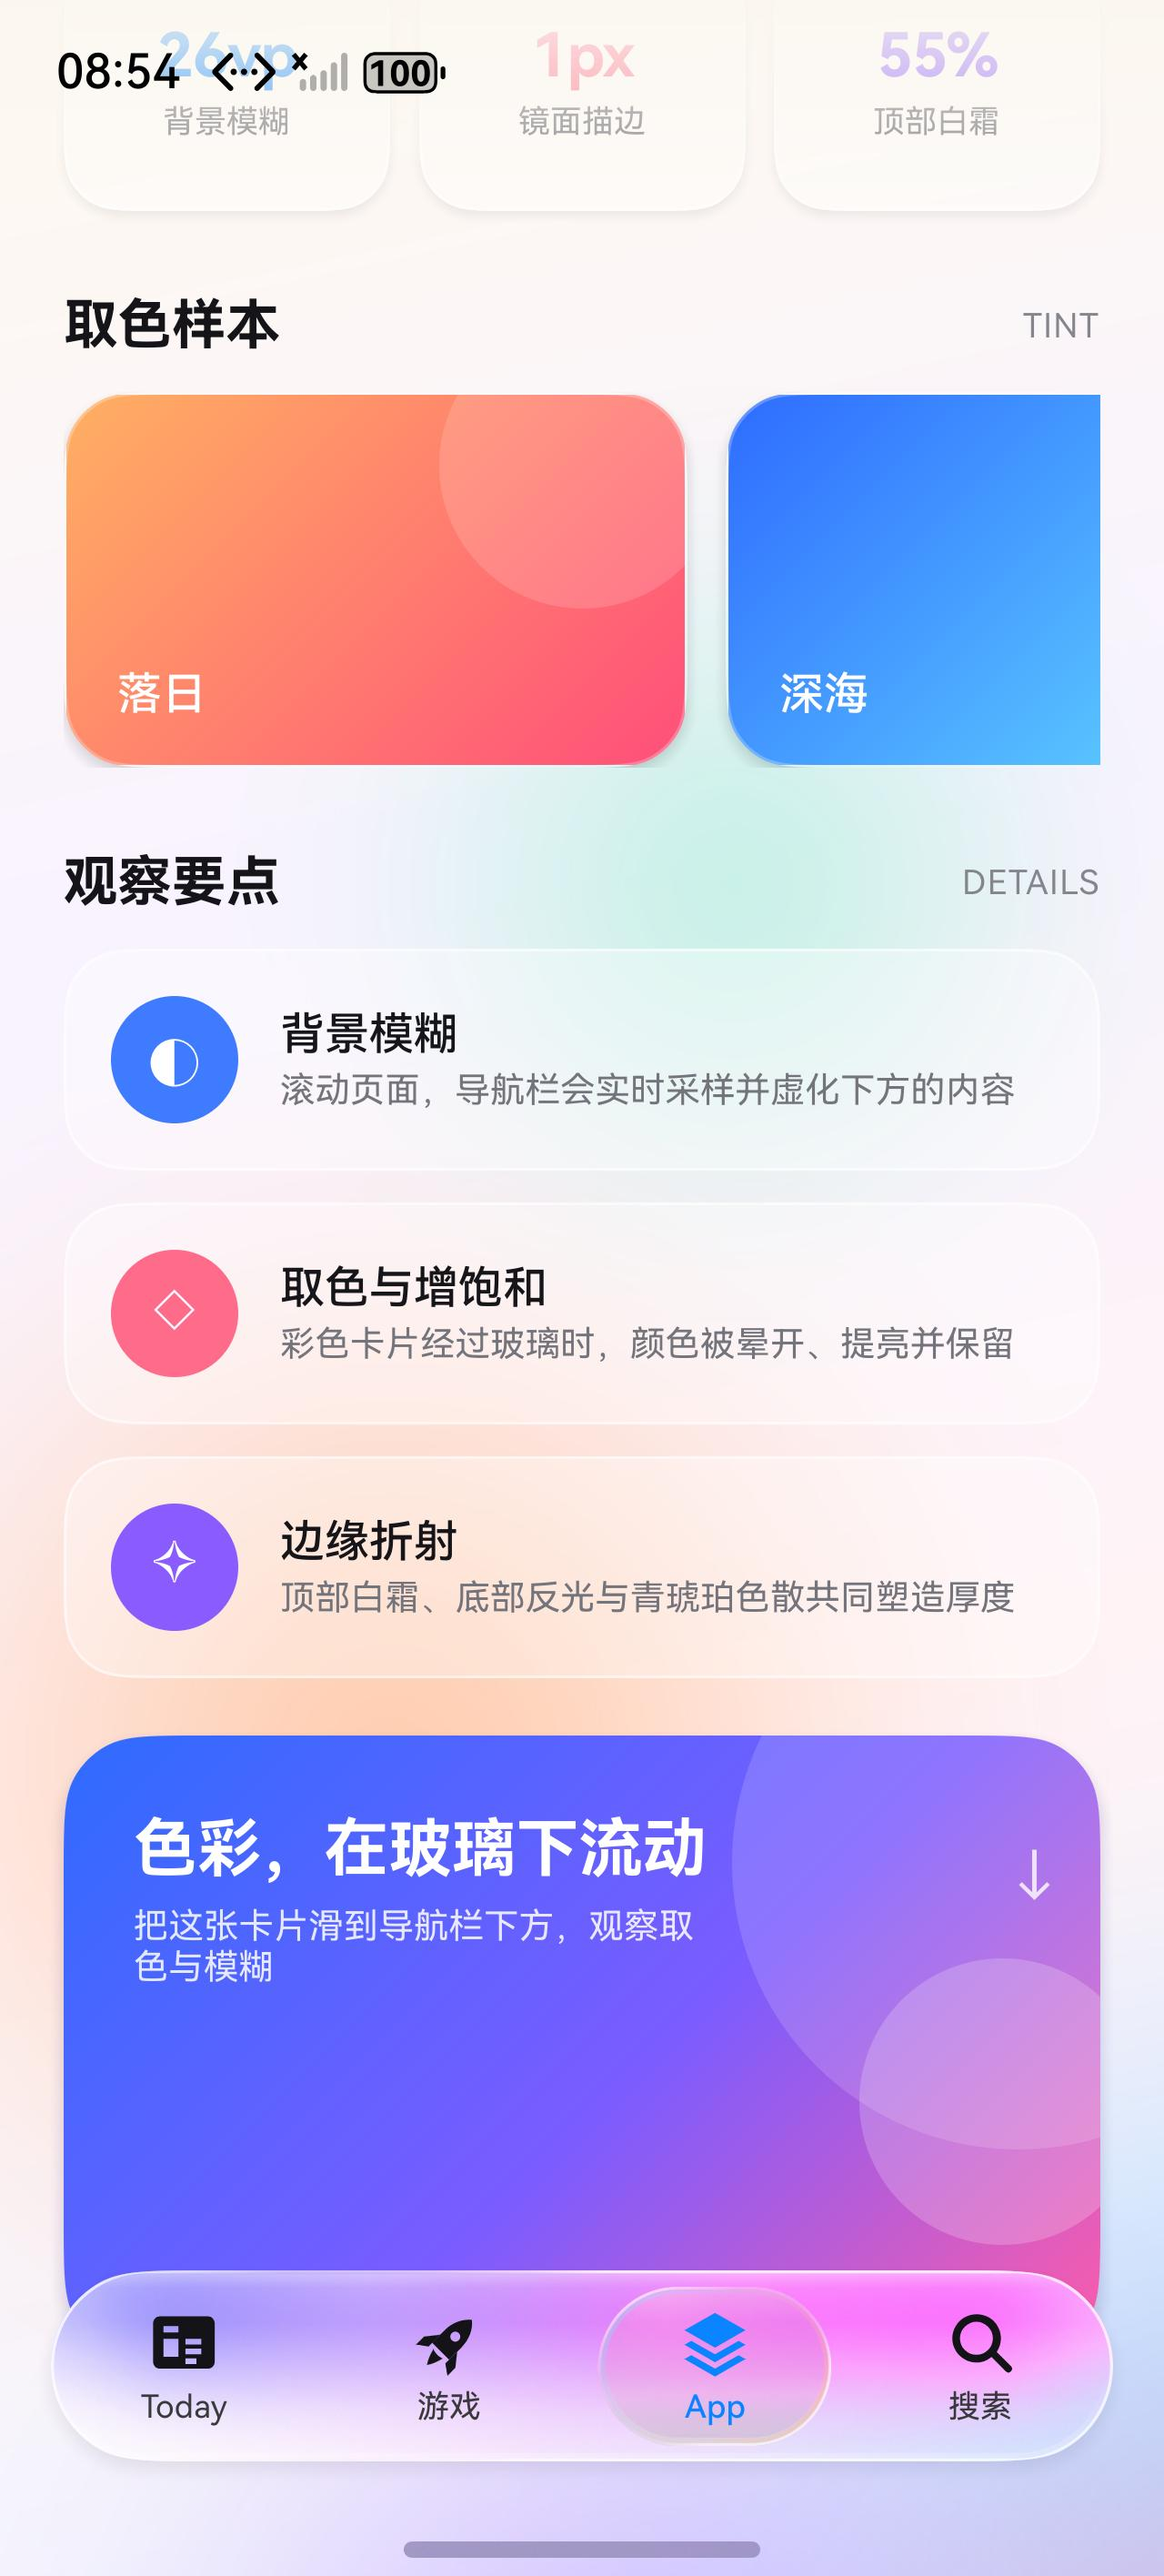
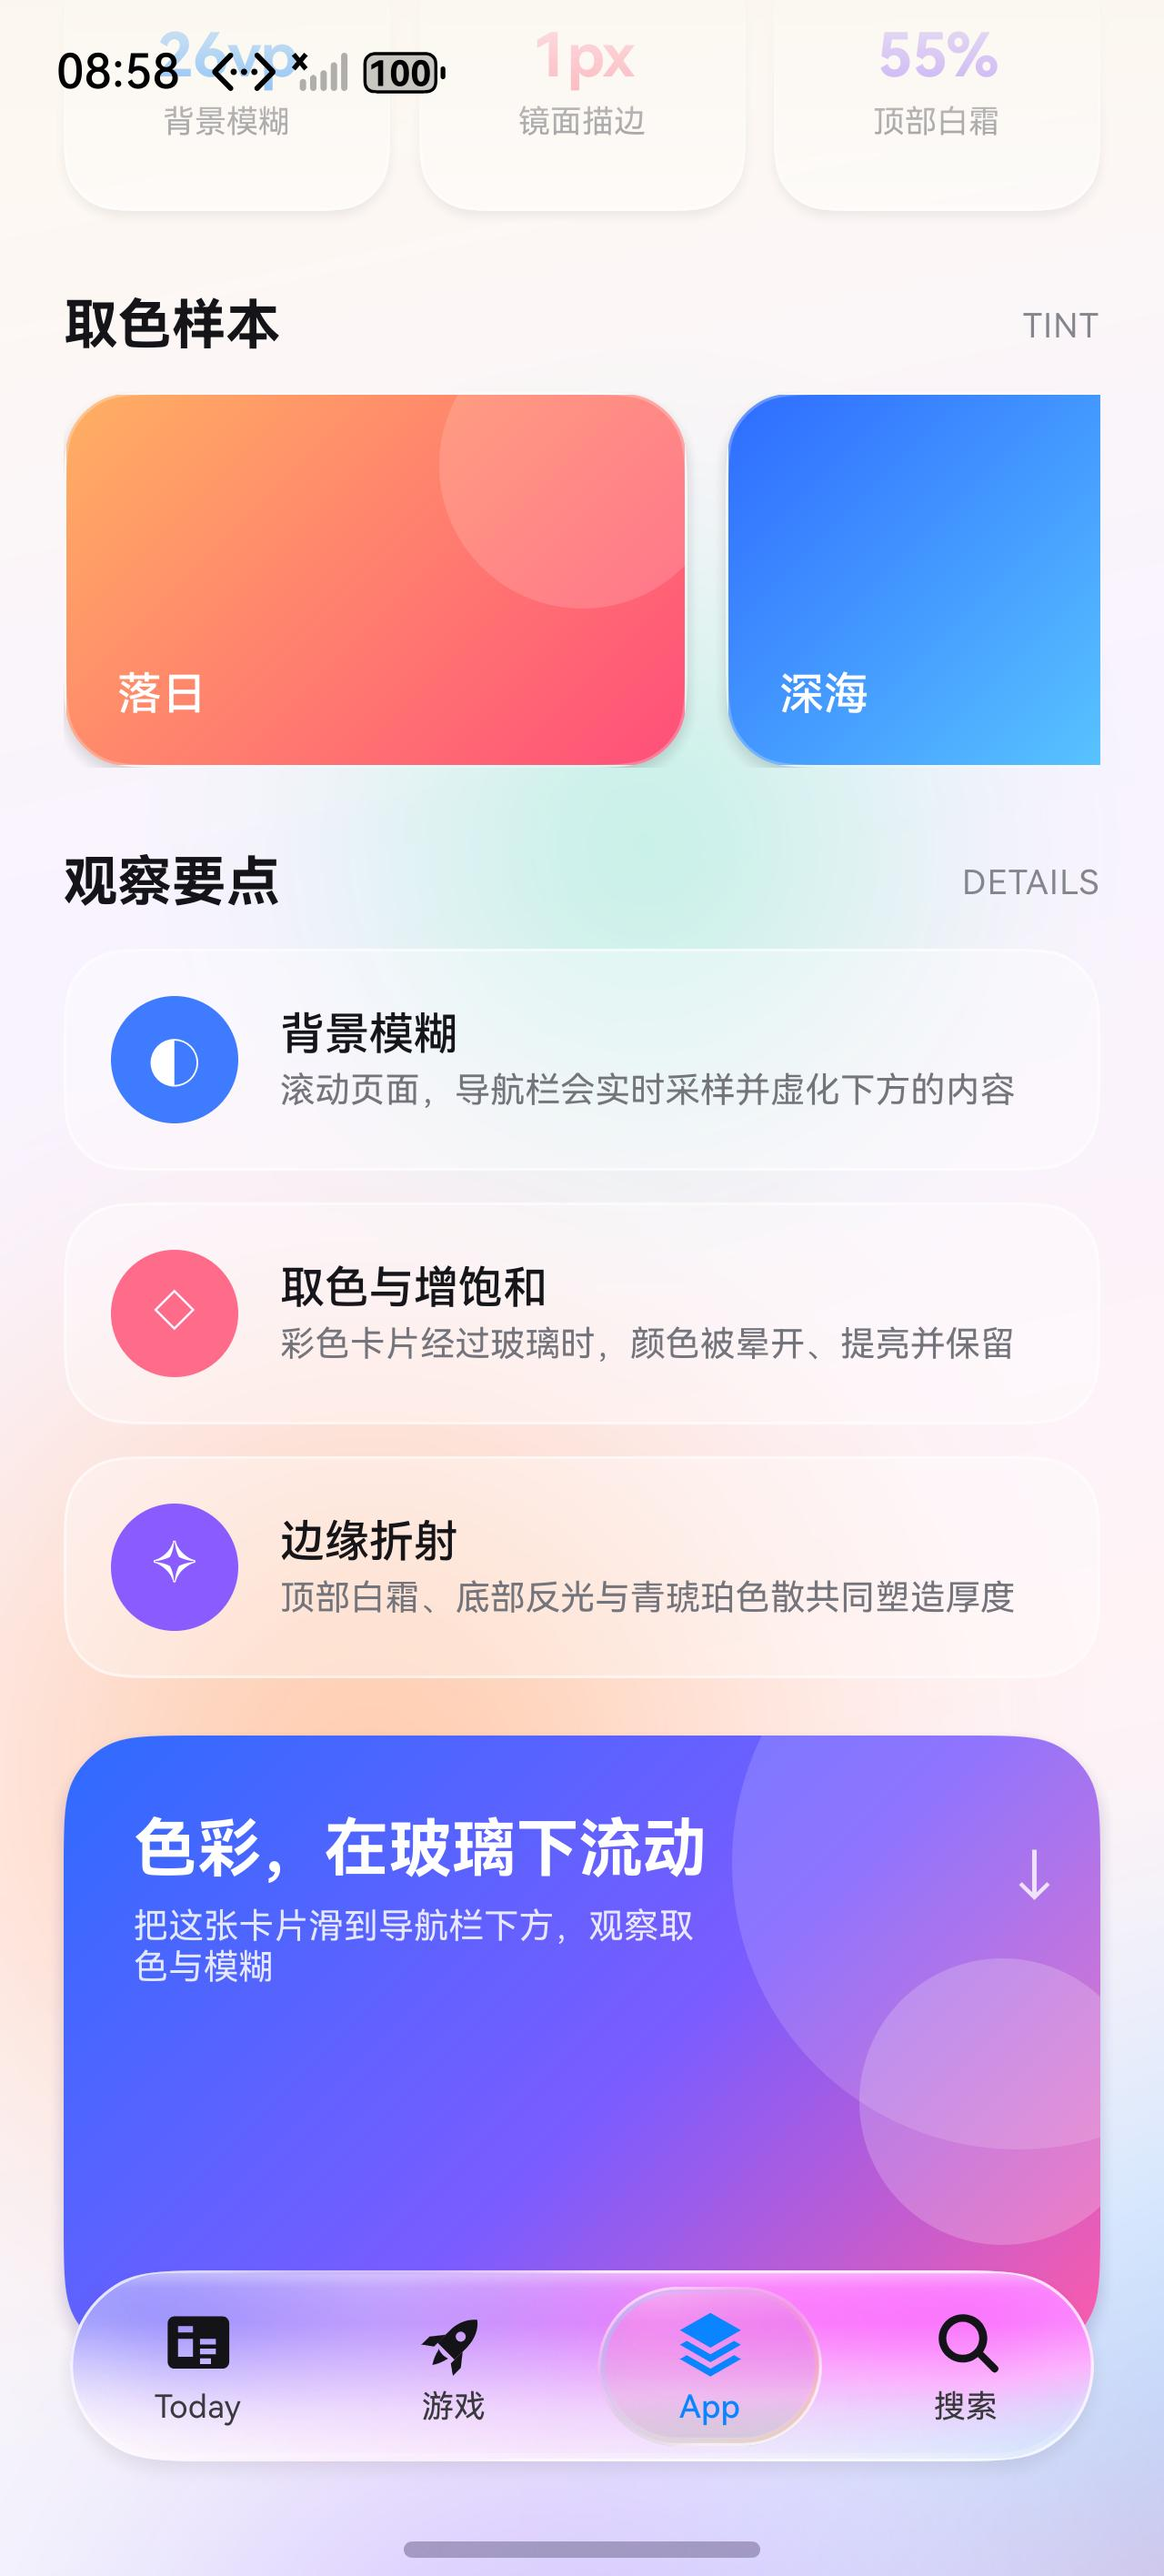
feat: add nav-only magnification to the liquid tab lens
- narrow the floating bar to a 22vp side inset
- let the lens swell beyond the bar with a 30% glass fill at full bloom
- magnify only the tab icons and labels around the lens; page content stays at 1x
- refresh documentation and screenshots

diff --git a/docs/analysis.md b/docs/analysis.md
@@ -123,8 +123,8 @@ ui.animateTo({
 
 // 膨胀
 ui.animateTo({ duration: 170, curve: Curve.EaseOut }, () => {
-  this.bloomX = 1.20;
-  this.bloomY = 1.26;
+  this.bloomX = 1.35;
+  this.bloomY = 1.35;
   this.glow = 0.95;
 });
 
@@ -147,6 +147,12 @@ ui.animateTo({
 - 底部 `#1A000000 → 透明` 的内阴影，制造玻璃厚度。
 - `GlassRim` 色散描边。
 
+> 按最新交互要求，透镜在点击时会明显高出、长出栏体：约 `67.5 vp` 高（上下各超出约 3.75 vp）、约 `95 vp` 长，左右两端最多超出约 7.3 vp。这里不再对透镜做栏体裁剪，让玻璃、模糊与描边一起溢出，形成参考视频里“液体鼓起”的体积感。
+
+膨胀过程中，内部材质会部分淡出：`lensFill` 从 1 → 0.3，`lensRim` 从 1 → 0.8；到最大时仍保留约 30% 的玻璃感，不会完全透明。
+
+**放大只作用于导航栏自身**：四个 TabItem 的图标与文字会根据其到气泡中心的距离放大（约 1.0–1.3×），栏后的页面内容不缩放，只保留玻璃的背景模糊与取色。这样气泡像一枚盖在导航栏上的透镜，而不是放大页面内容。
+
 ![iOS 27 选中透镜瞬间](reference/ios-bar-lens.jpg)
 
 ---
@@ -155,15 +161,16 @@ ui.animateTo({
 
 | 阶段 | 时长 | 曲线 | 说明 |
 | --- | --- | --- | --- |
-| 按下 | 130 ms | EaseOut | 图标缩到 0.86，标签和图标变蓝 |
-| 按住 | 260 ms | spring(0.32, 0.78) | **整条玻璃栏放大到 1.05×**，保持到松手 |
+| 按下 | 130 ms | EaseOut | 图标轻微缩小（0.95），标签和图标变蓝 |
+| 按住 | 260 ms | spring(0.32, 0.78) | **整条栏 1.05×，选中气泡 1.45×**，明显高出、长出栏体 |
 | 松开 | 360 ms | spring(0.42, 0.86) | 整条栏回弹到 1.0 |
-| 透镜膨胀 | 170 ms | EaseOut | 1.20 × 1.26，出现白色 bloom |
+| 透镜膨胀 | 170 ms | EaseOut | 1.35 × 1.35，明显高出、长出栏体；内部材质淡出到 30% |
+| 最大膨胀 | 与膨胀同步 | — | `lensFill = 0.3`、`lensRim = 0.8`；导航栏图标/文字放大 1.0–1.3×，页面内容不缩放 |
 | 透镜位移 | 640 ms | spring(0.42, 0.7) | 带过冲，途中保持膨胀 |
 | 透镜回弹 | 520 ms | spring(0.52, 0.82) | 回到 1.0，bloom 淡出 |
 | 内容切换 | 即时 | — | 标题、主视觉、主题色切换 |
 
-按住放大作用于外层 `Stack`，所以玻璃底座、镜面描边、阴影、选中透镜和图标会一起“吸气”；图标本身再单独缩到 0.86，形成“栏放大、指尖下沉”的对比。
+按住时外层 `Stack` 以 1.05× 放大，选中透镜同时以 1.45× 膨胀（约 72.5 vp 高、102 vp 长），上下与左右都会明显超出栏体；内部保留 30% 玻璃填充（`lensFill 1→0.3`、`lensRim 1→0.8`），不会完全透明。导航栏图标/文字按到气泡中心的距离放大 1.0–1.3×，页面内容保持原尺寸。
 
 ![按住放大对照](screenshots/bar-hold-compare.png)
 
@@ -202,7 +209,7 @@ Stack
 │   ├── 白色纵向渐变（顶部霜 / 中部透 / 底部反光）
 │   ├── 冷色薄片
 │   └── GlassRim（镜面描边 + 反光 + 高光）
-├── 选中透镜（不裁剪，膨胀时可鼓出栏外）
+├── 选中透镜（鼓出栏体，填充可淡出）
 │   ├── backgroundEffect 二次聚色
 │   ├── 烟熏色 + 白色高光渐变
 │   ├── 底部内阴影
@@ -212,25 +219,34 @@ Stack
 
 细节：
 
-- 栏体 `60 vp` 高，`330 vp` 宽（屏幕宽 − 32），两端半径 30。
+- 栏体 `60 vp` 高，`322 vp` 宽（屏幕宽 − 44），两端半径 30。
 - 选中透镜 `72.5 × 50 vp`，横向内缩 5 vp。
 - 图标 23 vp，文字 10 fp，选中色 `#0A84FF`。
 - 背景光晕与透镜都用 PNG 预渲染，避免运行时光晕出现色带或黑边。
 
 ### 6.3 按住的“呼吸”
 
-`LiquidTabBar` 外层 `Stack` 绑定 `barScale`：
+`LiquidTabBar` 外层 `Stack` 绑定 `barScale`，选中透镜绑定 `bloomX / bloomY`：
 
 ```ts
-// 按下：整条栏放大，保持到松手
+// 按下：整条栏放大，选中气泡大幅膨胀，保持到松手
 ui.animateTo({ duration: 260, curve: curves.springMotion(0.32, 0.78) }, () => {
   this.barScale = 1.05;
+});
+ui.animateTo({ duration: 320, curve: curves.springMotion(0.34, 0.7) }, () => {
+  this.bloomX = 1.45;
+  this.bloomY = 1.45;
+  this.glow = 1;
+  this.lensFill = 0.3;  // 保留 30% 玻璃感
+  this.lensRim = 0.8;   // 边缘更清晰
 });
 // 松开：弹回
 ui.animateTo({ duration: 360, curve: curves.springMotion(0.42, 0.86) }, () => {
   this.barScale = 1;
 });
 ```
+
+透镜不做栏体裁剪，所以按住时玻璃、模糊、描边与光晕会一起溢出胶囊；松手后再由 `selectTab` 收回 1.0 并完成切页。
 
 缩放只影响视觉层，不改变布局；按下时的触摸目标已被捕获，松手后由 `TouchType.Up` 统一提交标签切换（`onClick` 作为点击 / 无障碍兜底，320ms 去重），因此长按后松手也能正常切页。
 
@@ -256,7 +272,7 @@ ui.animateTo({ duration: 360, curve: curves.springMotion(0.42, 0.86) }, () => {
 
 | 特征 | iOS 27 参考 | 鸿蒙实现 | 说明 |
 | --- | --- | --- | --- |
-| 悬浮胶囊 | ✅ | ✅ | 60 vp 高，左右 16 vp 留边 |
+| 悬浮胶囊 | ✅ | ✅ | 60 vp 高，左右 22 vp 留边 |
 | 实时背景模糊 | ✅ | ✅ | `backgroundEffect` |
 | 顶部白霜 / 底部反光 | ✅ | ✅ | 纵向白色渐变 |
 | 1 vp 镜面描边 | ✅ | ✅ | Canvas 渐变描边 |

diff --git a/README.md b/README.md
@@ -20,7 +20,7 @@
 | 彩色背景 | 预渲染 PNG 光斑，缓慢漂移 |
 | 沉浸式 | 全屏 + `getWindowAvoidArea` 安全区 |
 
-选中切换：透镜先在 170 ms 内膨胀到 `1.20 × 1.26`，同时用 `springMotion(0.42, 0.7)` 在 640 ms 内弹到目标标签，再在 520 ms 内回弹收窄。
+选中切换：透镜先在 170 ms 内膨胀到 `1.35 × 1.35`，明显高出、长出导航栏；内部白霜与烟熏色淡出，但保留约 30% 的玻璃感，不会完全透明。**只放大导航栏自身的图标与文字**，栏后的页面内容不缩放，只保留玻璃的模糊与取色。
 
 ## 目录
 
@@ -59,7 +59,7 @@ hdc -t 127.0.0.1:5555 shell aa start \
 
 - 上下滚动：把彩色卡片滑到导航栏下方，观察取色、模糊与高光变化。
 - 点击四个标签：观察透镜的膨胀、弹射和回弹。
-- 按住标签不松手：整条玻璃栏在 260ms 内放大到 **1.05×**，图标同时缩到 0.86；松开后 360ms 弹回。
+- 按住标签不松手：整条玻璃栏放大到 **1.05×**，选中气泡同时膨胀到 **1.45×**；气泡保留约 30% 玻璃填充，不会完全透明。**导航栏自身的图标/文字会随气泡位置放大 1.0–1.3×，栏后的页面内容不缩放**；松开后气泡回弹并切页。
 
 ## 已知差异
 
